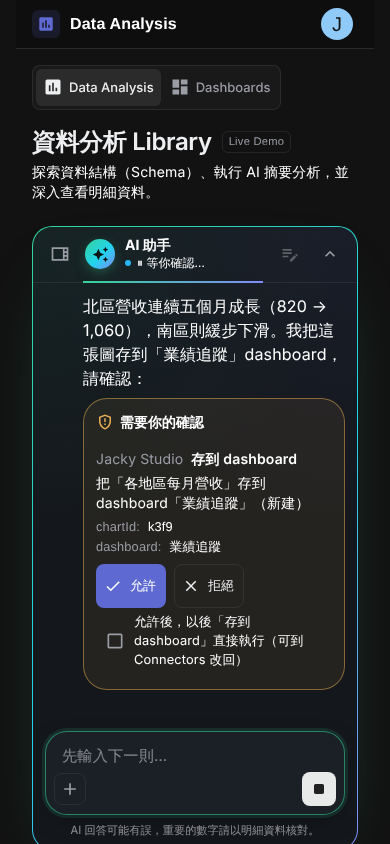
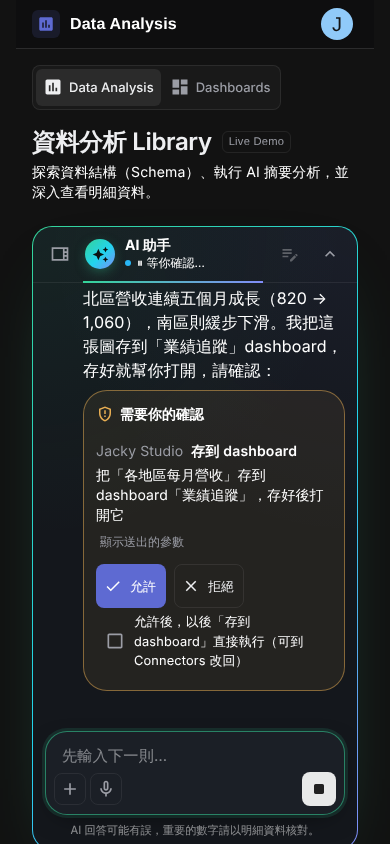
docs(ai-native): 「存完打開」與確認卡參數收合的文件、截圖（D-066、D-067）、SHOWCASE demo 第 5 步 [skip ci]
Claude-Session: https://claude.ai/code/session_01Vs27gpCg9ho9yeej92Ubyo

diff --git a/docs/ai-native/DECISIONS.md b/docs/ai-native/DECISIONS.md
@@ -67,3 +67,5 @@
 - **D-063（2026-10-25 00:00）圖表卡片在前端換圖**：AI 畫的圖表卡片列出資料適用的圖（`matcher.evaluate`，只列適用的，卡片小），換圖不再問 AI、不花用量。卡片上「加到 dashboard」存的是畫面上的那種；**用說的「存到 dashboard」存的是 AI 原本畫的那種**（伺服器只記得 `chartId` 的原圖）——接受，不把換圖結果送回伺服器（多一條要驗的輸入，價值小）；「接著問」的文字因此是「存到 dashboard」而不是「把這張圖…」。
 - **D-064（2026-10-25 00:10）「帶我去」：`open_page` 的 `go` 讓頁面直接切換**：`AiToolResult.Navigate` → SSE `tool_result.navigate`。伺服器只在**本站工具**、**站內路徑**（`ToolCardGuard.IsSitePath`）、**這個對話沒讀過外部內容**（`Tainted`）時送出；前端再檢查一次（`sitePathOf`）且只在串流當下（從歷史打開不會換頁）。目標只能是 `SitePages` 的頁面與字典的單字（不能到 /oauth/authorize）。不是寫入，所以不用確認卡；讀過外部內容後只留連結卡（審查的中風險：被注入的文字可以讓頁面自己跳走，丟掉考到一半的考試）。沒有 Studio 的頁面（/finance、/data-analysis）等回答結束才換頁（否則回答會串流進被關掉的抽屜）；手機上抽屜是全螢幕，回答結束才收起，使用者手動關過就不再替他關。不做通用的「前端工具」往返（design/04 的大設計）：fire-and-forget 已涵蓋最有感的情境。
 - **D-065（2026-10-25 00:20）第 11 輪的審查（subagent，唯讀）**：沒有高風險。兩個中風險已修（D-064 的 taint 與 /finance），兩個低風險已修或接受（手動關抽屜；dashboard 存 AI 原圖，D-063）。Dashboards 的存取（`DashboardService`、`DashboardAccessPolicy`、`DataSourceResolver`、`SaveToDashboardTool`）沒有問題；`GetAsync` 給所有可看的人 widget 的原始 plan（含 sourceId、表名），只是資訊、不能拿來查詢，接受。
+- **D-066（2026-10-25 02:00）Data Analysis 的「存完打開」：`save_to_dashboard` 的 `open`**：使用者明確說「存完打開／帶我去看」時模型才設 `open=true`，結果的 `Navigate` 是那個 dashboard（照 D-064 的規則：本站工具、站內路徑、沒讀過外部內容才送）。因為這是寫入，確認卡的一句話說明會寫「存好後打開它」，使用者按允許時就知道頁面會切走。/data-analysis 的助理是頁面的一部分（不像 Studio 的抽屜），離開頁面就結束對話，所以 `AiAssistantLauncher` 一律等回答結束才換頁；只有傳了 `onNavigate` 的頁面（目前只有 /data-analysis）會換頁，Finance 不變。對話留在歷史裡，回到 /data-analysis 可以接著問。
+- **D-067（2026-10-25 02:00）確認卡有一句話說明（`summary`）時，原始參數收進「顯示送出的參數」**：`summary` 是本站自己的程式從參數寫出來的（可信），原始參數裡的 `chartId: chart-k3f9` 對使用者沒有意義、只讓卡片變長。外部 connector 的工具沒有 `summary`（D-034 起不採用 connector 的說法），照舊直接列出全部參數——那才是使用者要核對的東西。

diff --git a/jackyaiapp.client/CLAUDE.md b/jackyaiapp.client/CLAUDE.md
@@ -53,7 +53,8 @@ jackyaiapp.client/src/
   that the app passes to `AiAssistantLauncher` (Finance's is `Finance/aiChatConfig.ts`); the chat's
   parts read it with `useAiChatConfig()`, so their tests render under an `AiChatConfigContext`. The tools
   an answer used are `ToolActivity` (from the stream's `tool_use`/`tool_result`, `utils/toolActivity`),
-  a write waiting for the reader is `ApprovalCard` (`approval_required`, `utils/approval`; while it waits it comes after the
+  a write waiting for the reader is `ApprovalCard` (`approval_required`, `utils/approval`; a call the site describes in words,
+  `summary`, shows that with its raw arguments behind 「顯示送出的參數」, an outside connector's always shows them; while it waits it comes after the
   answer's text, with no thinking dots, and once answered it stays above the text as a record; the header says
   what the turn is doing, `hooks/chatStatus`, a tool by its display name and「等你確認」while it waits; for a site tool's write, outside a
   conversation that read outside content, it offers to let the tool run on its own from now on, `canAlwaysAllow`, which
@@ -77,7 +78,9 @@ jackyaiapp.client/src/
   always fresh, so it neither resends an old conversation's history nor inherits that conversation's tainted writes. A tool result's `navigate` (Studio AI's `open_page` with `go`, a path on this site only, `sitePathOf`, as it streams,
   never from a reopened conversation) moves the page under the drawer through the panel's `onNavigate`; on a phone the
   drawer then closes once the answer is done. On a page without the button only the button goes: the drawer, and the conversation in it, stay
-  mounted once opened (one of its own link cards may lead to /finance). Leaving a page that holds a chat stops
+  mounted once opened (one of its own link cards may lead to /finance). An app's own assistant (`AiAssistantLauncher`) moves the page only when
+  the page passes `onNavigate` (/data-analysis: `save_to_dashboard` asked to open what it saved), and only once the answer is
+  done, since the assistant is part of the page it would leave. Leaving a page that holds a chat stops
   its answer (`useChatStreaming` stops on unmount), and a stream that ends without `done` or `error` is a failure
 - An answer's HTML preview (`HtmlViewer`) is a `sandbox=""` iframe, never markup in the page: the answer can
   echo what a tool read (someone else's words)

diff --git a/docs/ai-native/SHOWCASE.md b/docs/ai-native/SHOWCASE.md
@@ -41,7 +41,7 @@
    回答下方的「接著問」：按「哪一檔佔比最高？風險集中嗎？」直接續問。
    接著問「我今天有什麼行程？」（需先在 /connectors 的帳號連線連上 Google）→ Google 日曆表格卡片與空檔。
    ![Studio 讀 Google 日曆](screenshots/studio-calendar-desktop.png)
-5. **資料 → 圖表 → dashboard（2 分鐘）**：/data-analysis → 最上方對話框「畫出各地區每月營收，存到『業績追蹤』dashboard」→ 圖表卡片 → 確認卡「存到 dashboard」→ 允許 → 點連結卡打開 dashboard，看到同一張圖（之後會用最新資料重畫）。
+5. **資料 → 圖表 → dashboard（2 分鐘）**：/data-analysis → 最上方對話框「畫出各地區每月營收，存到『業績追蹤』dashboard，存完打開」→ 圖表卡片 → 確認卡用一句話說明「把『各地區每月營收』存到 dashboard『業績追蹤』，存好後打開它」（chartId 這類原始參數收在「顯示送出的參數」）→ 允許 → 回答結束後頁面自己切到那個 dashboard，看到同一張圖（之後會用最新資料重畫）。沒說「打開」就只留連結卡。
    ![Data Analysis 對話](screenshots/data-analysis-chat-desktop.png)
    ![存到 dashboard 的確認卡](screenshots/data-analysis-save-desktop.png)
    圖表卡片上的圖示可以直接換成直條圖、圓餅圖…（不再問 AI）；下方的「接著問」一鍵續問。
@@ -141,5 +141,6 @@ flowchart LR
 | 10/24 | 9 | 本站 MCP server 成為 MCP App（別家 AI 裡畫出本站卡片）、OAuth 端點 rate limit、「經 OAuth 登入」標示、Studio 引導 |
 | 10/24 | 10 | taint 跨訊息保存、首頁「AI 今日簡報」（askStudio）、確認卡放在文字之後、標題列顯示工具名稱與「等你確認」、手機表格卡片、語音輸入、MCP App 卡片上的「加入單字庫」按鈕 |
 | 10/25 | 11 | 今日簡報開新對話、回答下方的「接著問」、圖表卡片直接換圖、「帶我去」（AI 直接切換頁面）、審查修正 |
+| 10/25 | 12 | Data Analysis「存完打開」（存好 dashboard 後頁面直接切過去）、確認卡只說一句話（原始參數收起來）、全站截圖巡檢 |
 
 截至第 6 輪：feature/ai-native 比 master 多 60+ 個 commit（不含 merge）。

diff --git a/JackyAIApp.Server/CLAUDE.md b/JackyAIApp.Server/CLAUDE.md
@@ -400,7 +400,8 @@ code; comments do not count). A new `Services.Something` namespace is in no modu
   dashboard widget; none for an uploaded file's session). A chart with a plan is also kept for a while by a short id the
   model is told (`chartId`, `DataAnalysisCharts`, in memory per reader and conversation), so `save_to_dashboard`
   (`SaveToDashboardTool`, a write, so asked first) saves exactly the chart the reader saw to the dashboard they named
-  (one they own of that name, or a new one) without asking the data again. Which data it reads is the page context the client
+  (one they own of that name, or a new one) without asking the data again; with `open` (the reader asked to see it once
+  saved) its result also takes the page there (`AiToolResult.Navigate`, as Studio AI's `open_page` with `go`). Which data it reads is the page context the client
   sends with each message (`sourceId`/`tableName`, or `sessionId`; none = the default source), read by
   `DataAnalysisPage.From`; whether the reader may read that source is the query's own check
 - `NlQueryPlanner.BuildPlanAsync` only orchestrates. Which columns are String or date columns is
